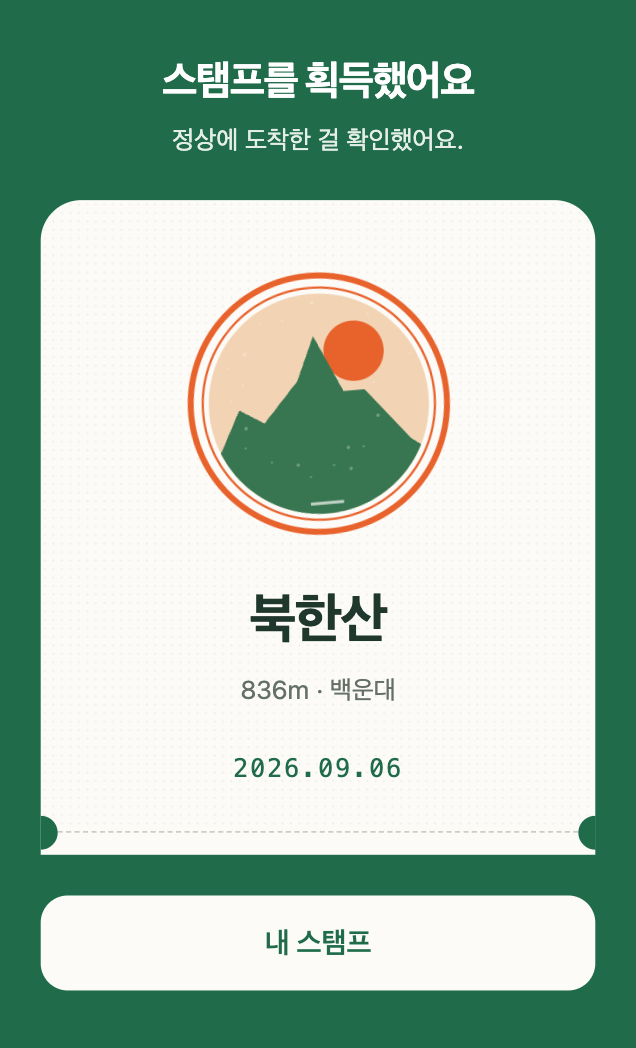
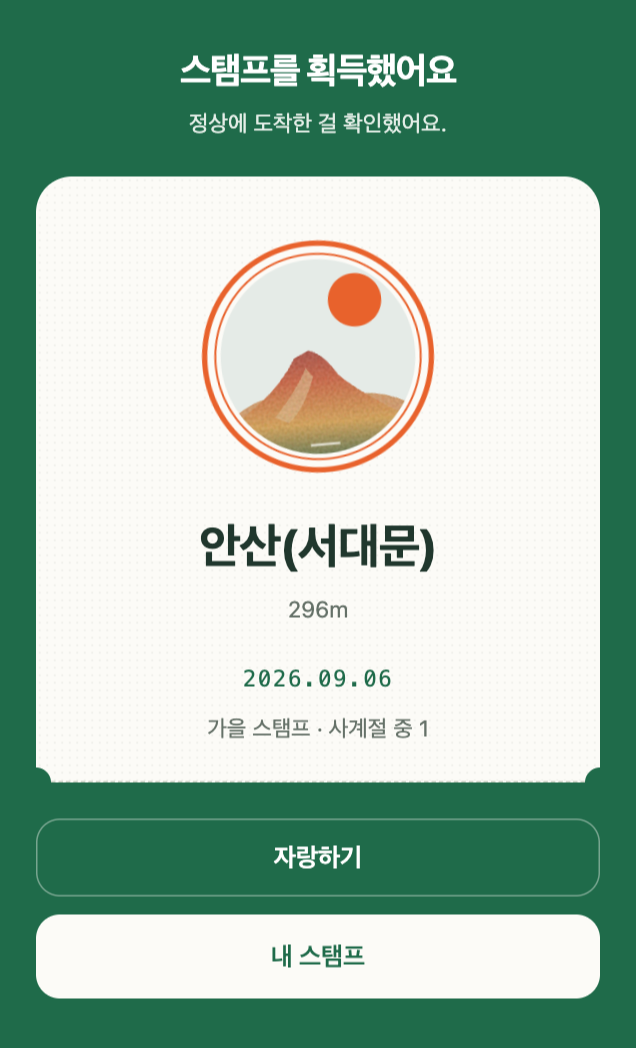
완주 기록: 산행 시작→정상 인증 걸린 시간, 방문 횟수
같은 산에서 인증 전 24시간 안에 누른 산행 시작이 있으면 걸린 시간이 스탬프에 붙는다.
한국 날짜로 자르지 않는다 — 야간 산행은 자정을 넘긴다. 규칙은 src/lib/visits.ts 하나에 두고
my-stamps·verify-summit·클라이언트가 같이 쓴다.

- verify-summit: 성공 응답에 hikeStartedAt. 티켓에 "시작부터 2시간 40분 만에 정상".
- my-stamps: hike_starts를 같이 읽어 스탬프마다 hikeStartedAt을 붙인다.
- 사계절 시트 아래 "N번 다녀왔어요" 목록(날짜·계절·걸린 시간). 산 상세 배지에 "· N번".
- 산행 시작 각주를 "…정상까지 가면 걸린 시간이 스탬프에 남아요. 안 눌러도 정상 인증은 돼요"로.
- 등록용 스크린샷 6장을 새 스탬프 그림으로 다시 찍었다(636×1048).
- scripts/build-photos.mjs: TourAPI 사진 수집 초안. 공공누리 1·3유형만 받는다(광고 대비).
  apis.data.go.kr이 응답하지 않아 아직 못 돌렸다.

Changed region(s): [[0.0299, 0.0305, 0.956, 0.9771]]

diff --git a/src/screens/MountainDetail.tsx b/src/screens/MountainDetail.tsx
@@ -30,6 +30,7 @@ import { askReviewOnce } from '../lib/review.ts';
 import { openPick, shareMountain } from '../lib/share.ts';
 import { seasonOf } from '../lib/stamp-art.ts';
 import { canCheckIn } from '../lib/trailhead.ts';
+import { durationMin, formatDuration } from '../lib/visits.ts';
 import {
   ensureLocationPermission,
   prefetchLocation,
@@ -67,6 +68,8 @@ type Props = {
   seasons: SeasonRecord;
   /** 오늘(한국 시간) 이 산 스탬프를 이미 받았는지. 성공 화면을 띄웠다가 되돌리지 않으려고 본다. */
   stampedToday: boolean;
+  /** 이 산을 다녀온 횟수(스탬프 행 수) */
+  visitCount: number;
   /** 성공 티켓 절취선 아래 "96곳 중 N곳" */
   collectedCount: number;
   totalCount: number;
@@ -169,6 +172,7 @@ export function MountainDetail({
   onGoToPicks,
   seasons,
   stampedToday,
+  visitCount,
   collectedCount,
   totalCount,
   onVerified,
@@ -349,6 +353,11 @@ export function MountainDetail({
             <p className="ticket-season">
               {SEASON_LABEL[season]} 스탬프 · 사계절 중 {seasonDone}
             </p>
+            {state.outcome.hikeStartedAt !== undefined && (
+              <p className="ticket-season">
+                시작부터 {formatDuration(durationMin(state.outcome.hikeStartedAt, now))} 만에 정상
+              </p>
+            )}
             <FieldNote reading={state.reading} outcome={state.outcome} />
           </div>
           <div className="ticket-stub">
@@ -562,6 +571,7 @@ export function MountainDetail({
                   .filter((s) => seasons[s] !== undefined)
                   .map((s) => SEASON_LABEL[s])
                   .join('·')} 스탬프를 모았어요`}
+            {visitCount > 1 && ` · ${visitCount}번`}
           </span>
         )}
         {collected && (
@@ -611,8 +621,8 @@ export function MountainDetail({
               <p className="footnote">
                 {hikeNote ??
                   (mountain.trailheads.length > 0
-                    ? '등산로 입구에서 누르면 위 집계에 함께 잡혀요. 정상 인증과는 상관없어요.'
-                    : '산 근처에서 누르면 위 집계에 함께 잡혀요. 정상 인증과는 상관없어요.')}
+                    ? '등산로 입구에서 누르고 정상까지 가면 걸린 시간이 스탬프에 남아요. 안 눌러도 정상 인증은 돼요.'
+                    : '산 근처에서 누르고 정상까지 가면 걸린 시간이 스탬프에 남아요. 안 눌러도 정상 인증은 돼요.')}
               </p>
             </div>
           )}

diff --git a/src/lib/visits.ts b/src/lib/visits.ts
@@ -1,0 +1,56 @@
+// 한 산을 다녀온 기록. 스탬프 행이 곧 방문(산당 하루 1행)이고, 같은 산에서 인증 전 24시간
+// 안에 누른 산행 시작이 있으면 걸린 시간이 붙는다. 서버(my-stamps·verify-summit)와
+// 클라이언트(시트·티켓)가 같은 짝짓기 규칙을 쓴다.
+import { seasonOf, type Season } from './stamp-art.ts';
+
+// api.ts를 끌어오지 않는다 — Edge Function이 이 파일을 함께 쓰는데, api.ts는 브라우저 전용이다.
+type Stamp = { mountainId: string; verifiedAt: string; hikeStartedAt?: string };
+
+export type HikeStartRow = { mountainId: string; startedAt: string };
+
+const PAIR_WINDOW_MS = 24 * 60 * 60 * 1000;
+
+// 인증 전 24시간 안, 같은 산의 산행 시작 중 가장 늦은 것. 한국 날짜로 자르지 않는다 —
+// 야간 산행은 자정을 넘긴다.
+export function hikeStartFor(
+  stamp: { mountainId: string; verifiedAt: string },
+  starts: HikeStartRow[],
+): string | undefined {
+  const verified = Date.parse(stamp.verifiedAt);
+  let best: string | undefined;
+  for (const start of starts) {
+    if (start.mountainId !== stamp.mountainId) continue;
+    const started = Date.parse(start.startedAt);
+    if (started >= verified || verified - started > PAIR_WINDOW_MS) continue;
+    if (best === undefined || started > Date.parse(best)) best = start.startedAt;
+  }
+  return best;
+}
+
+export function durationMin(startedAt: string, verifiedAt: string): number {
+  return Math.max(1, Math.round((Date.parse(verifiedAt) - Date.parse(startedAt)) / 60_000));
+}
+
+// 160 → "2시간 40분", 45 → "45분", 120 → "2시간"
+export function formatDuration(minutes: number): string {
+  const hours = Math.floor(minutes / 60);
+  const rest = minutes % 60;
+  if (hours === 0) return `${rest}분`;
+  return rest === 0 ? `${hours}시간` : `${hours}시간 ${rest}분`;
+}
+
+export type Visit = { verifiedAt: string; season: Season; durationMin?: number };
+
+// 그 산의 방문 기록, 최근순.
+export function visitsOf(stamps: Stamp[], mountainId: string): Visit[] {
+  return stamps
+    .filter((stamp) => stamp.mountainId === mountainId)
+    .sort((a, b) => (a.verifiedAt < b.verifiedAt ? 1 : -1))
+    .map((stamp) => ({
+      verifiedAt: stamp.verifiedAt,
+      season: seasonOf(stamp.verifiedAt),
+      ...(stamp.hikeStartedAt === undefined
+        ? {}
+        : { durationMin: durationMin(stamp.hikeStartedAt, stamp.verifiedAt) }),
+    }));
+}

diff --git a/supabase/functions/verify-summit/index.ts b/supabase/functions/verify-summit/index.ts
@@ -2,6 +2,7 @@
 
 import { seoulDayStartMs } from '../../../src/lib/day.ts';
 import { isReadingFresh, verifySummit } from '../../../src/lib/verify.ts';
+import { hikeStartFor } from '../../../src/lib/visits.ts';
 import { json, preflight } from '../_shared/http.ts';
 import { MOUNTAINS } from '../_shared/mountains.ts';
 import { parseReading } from '../_shared/reading.ts';
@@ -89,17 +90,40 @@ Deno.serve(async (request: Request) => {
     return json({ status: 'already_today', distanceM: result.distanceM }, 200, origin);
   }
 
-  const { error: insertError } = await supabase.from('stamps').insert({
-    user_id: userKey,
-    mountain_id: mountain.id,
-    distance_m: result.distanceM,
-    accuracy_m: reading.coords.accuracy,
-  });
+  const { data: inserted, error: insertError } = await supabase
+    .from('stamps')
+    .insert({
+      user_id: userKey,
+      mountain_id: mountain.id,
+      distance_m: result.distanceM,
+      accuracy_m: reading.coords.accuracy,
+    })
+    .select('verified_at')
+    .single();
   if (insertError !== null) {
     console.error(`stamps 저장 실패 · ${insertError.message}`);
     return json({ error: 'server_error' }, 500, origin);
   }
 
+  // 24시간 안에 이 산에서 산행 시작을 눌렀으면 걸린 시간의 재료를 돌려준다. 조회가 실패해도
+  // 스탬프는 이미 저장됐으니 시간만 빼고 성공으로 답한다.
+  const { data: starts } = await supabase
+    .from('hike_starts')
+    .select('mountain_id, started_at')
+    .eq('user_id', userKey)
+    .eq('mountain_id', mountain.id)
+    .gte('started_at', new Date(now - 24 * 60 * 60 * 1000).toISOString());
+  const hikeStartedAt = hikeStartFor(
+    { mountainId: mountain.id, verifiedAt: inserted.verified_at },
+    (starts ?? []).map((row) => ({ mountainId: row.mountain_id, startedAt: row.started_at })),
+  );
+
   console.log(`stamp · userKey=${userKey} · ${mountain.id} · ${Math.round(result.distanceM)}m`);
-  return json({ status: 'ok', distanceM: result.distanceM }, 200, origin);
+  return json(
+    hikeStartedAt === undefined
+      ? { status: 'ok', distanceM: result.distanceM }
+      : { status: 'ok', distanceM: result.distanceM, hikeStartedAt },
+    200,
+    origin,
+  );
 });

diff --git a/supabase/functions/my-stamps/index.ts b/supabase/functions/my-stamps/index.ts
@@ -1,5 +1,6 @@
 // 내 스탬프 목록. 최근에 찍은 것부터.
 
+import { hikeStartFor } from '../../../src/lib/visits.ts';
 import { json, preflight } from '../_shared/http.ts';
 import { readUserKey, serviceClient } from '../_shared/session.ts';
 
@@ -18,20 +19,30 @@ Deno.serve(async (request: Request) => {
     return json({ error: 'unauthorized' }, 401, origin);
   }
 
-  const { data, error } = await serviceClient()
-    .from('stamps')
-    .select('mountain_id, verified_at')
-    .eq('user_id', userKey)
-    .order('verified_at', { ascending: false });
+  const supabase = serviceClient();
+  const [{ data, error }, { data: starts, error: startsError }] = await Promise.all([
+    supabase
+      .from('stamps')
+      .select('mountain_id, verified_at')
+      .eq('user_id', userKey)
+      .order('verified_at', { ascending: false }),
+    supabase.from('hike_starts').select('mountain_id, started_at').eq('user_id', userKey),
+  ]);
 
-  if (error !== null) {
-    console.error(`my-stamps 조회 실패 · ${error.message}`);
+  if (error !== null || startsError !== null) {
+    console.error(`my-stamps 조회 실패 · ${error?.message ?? startsError?.message}`);
     return json({ error: 'server_error' }, 500, origin);
   }
 
+  // 산행 시작과 짝지어 걸린 시간의 재료(hikeStartedAt)를 같이 준다. 규칙은 src/lib/visits.ts.
+  const startRows = starts.map((row) => ({ mountainId: row.mountain_id, startedAt: row.started_at }));
   return json(
     {
-      stamps: data.map((row) => ({ mountainId: row.mountain_id, verifiedAt: row.verified_at })),
+      stamps: data.map((row) => {
+        const stamp = { mountainId: row.mountain_id, verifiedAt: row.verified_at };
+        const hikeStartedAt = hikeStartFor(stamp, startRows);
+        return hikeStartedAt === undefined ? stamp : { ...stamp, hikeStartedAt };
+      }),
     },
     200,
     origin,

diff --git a/src/components/SeasonSheet.tsx b/src/components/SeasonSheet.tsx
@@ -11,11 +11,12 @@ import {
 import { shareMountain } from '../lib/share.ts';
 import { useSystemBack } from '../lib/useSystemBack.ts';
 import type { Mountain } from '../lib/verify.ts';
+import { formatDuration, type Visit } from '../lib/visits.ts';
 
-type Props = { mountain: Mountain; record: SeasonRecord; onClose: () => void };
+type Props = { mountain: Mountain; record: SeasonRecord; visits: Visit[]; onClose: () => void };
 
 // 산 하나의 사계절. 컬렉션 칸을 누르면 뜬다. "다음엔 겨울에 오자"가 생기는 자리.
-export function SeasonSheet({ mountain, record, onClose }: Props) {
+export function SeasonSheet({ mountain, record, visits, onClose }: Props) {
   useSystemBack(true, onClose);
   const done = seasonCount(record);
   // 미리보기 카드는 가장 최근에 찍은 계절로 만든다.
@@ -54,6 +55,26 @@ export function SeasonSheet({ mountain, record, onClose }: Props) {
             );
           })}
         </ul>
+
+        {/* 다녀온 기록. 산행 시작을 누르고 온 날만 걸린 시간이 붙는다. */}
+        {visits.length > 0 && (
+          <section className="visits">
+            <h3 className="section-title">
+              {visits.length}번 다녀왔어요
+            </h3>
+            <ul className="visit-list">
+              {visits.slice(0, 10).map((visit) => (
+                <li key={visit.verifiedAt}>
+                  <span>{formatSeoulDate(visit.verifiedAt)}</span>
+                  <span>{SEASON_LABEL[visit.season]}</span>
+                  <strong>
+                    {visit.durationMin === undefined ? '' : formatDuration(visit.durationMin)}
+                  </strong>
+                </li>
+              ))}
+            </ul>
+          </section>
+        )}
 
         {latest !== undefined && (
           <button

diff --git a/src/lib/visits.test.ts b/src/lib/visits.test.ts
@@ -1,0 +1,47 @@
+import assert from 'node:assert/strict';
+import { test } from 'node:test';
+
+import { durationMin, formatDuration, hikeStartFor, visitsOf } from './visits.ts';
+
+const stamp = { mountainId: 'a', verifiedAt: '2026-09-06T03:00:00.000Z' };
+
+test('인증 전 24시간 안의 같은 산 시작 중 가장 늦은 것을 짝짓는다', () => {
+  const starts = [
+    { mountainId: 'a', startedAt: '2026-09-05T02:00:00.000Z' }, // 25시간 전 — 밖
+    { mountainId: 'a', startedAt: '2026-09-05T22:00:00.000Z' }, // 자정 넘긴 야간 산행
+    { mountainId: 'a', startedAt: '2026-09-06T00:20:00.000Z' }, // 가장 늦음
+    { mountainId: 'b', startedAt: '2026-09-06T00:30:00.000Z' }, // 다른 산
+    { mountainId: 'a', startedAt: '2026-09-06T04:00:00.000Z' }, // 인증 뒤
+  ];
+  assert.equal(hikeStartFor(stamp, starts), '2026-09-06T00:20:00.000Z');
+  assert.equal(hikeStartFor(stamp, starts.slice(0, 1)), undefined);
+});
+
+test('걸린 시간 표기', () => {
+  assert.equal(durationMin('2026-09-06T00:20:00.000Z', stamp.verifiedAt), 160);
+  assert.equal(formatDuration(160), '2시간 40분');
+  assert.equal(formatDuration(45), '45분');
+  assert.equal(formatDuration(120), '2시간');
+});
+
+test('방문 기록은 최근순이고 시작이 있을 때만 시간이 붙는다', () => {
+  const visits = visitsOf(
+    [
+      { mountainId: 'a', verifiedAt: '2026-04-10T02:00:00.000Z' },
+      { mountainId: 'b', verifiedAt: '2026-05-10T02:00:00.000Z' },
+      {
+        mountainId: 'a',
+        verifiedAt: '2026-09-06T03:00:00.000Z',
+        hikeStartedAt: '2026-09-06T00:20:00.000Z',
+      },
+    ],
+    'a',
+  );
+  assert.deepEqual(
+    visits.map((v) => [v.season, v.durationMin]),
+    [
+      ['autumn', 160],
+      ['spring', undefined],
+    ],
+  );
+});

diff --git a/src/lib/api.ts b/src/lib/api.ts
@@ -5,12 +5,13 @@ import type { Reading, VerifyReason } from './verify.ts';
 const API_BASE = import.meta.env.VITE_API_BASE ?? '';
 
 export type SummitOutcome =
-  | { status: 'ok'; distanceM: number }
+  // hikeStartedAt: 같은 산에서 24시간 안에 누른 산행 시작. 있으면 티켓에 걸린 시간을 적는다.
+  | { status: 'ok'; distanceM: number; hikeStartedAt?: string }
   | { status: 'already_today'; distanceM: number }
   | { status: 'rejected'; reason: VerifyReason; distanceM: number }
   | { status: 'stale_reading' };
 
-export type Stamp = { mountainId: string; verifiedAt: string };
+export type Stamp = { mountainId: string; verifiedAt: string; hikeStartedAt?: string };
 
 // 인증이 반경 밖으로 실패했을 때, 이용자가 "여기도 정상"이라고 알려주는 통로.
 // 스탬프를 주지 않는다 — 우리가 정상 좌표를 고칠지 판단하는 근거로만 쓴다.

diff --git a/src/screens/MyStamps.tsx b/src/screens/MyStamps.tsx
@@ -10,6 +10,7 @@ import { groupByRegion } from '../lib/region.ts';
 import { askReview, canReview } from '../lib/review.ts';
 import { groupSeasons, latestSeason, seasonCount } from '../lib/seasons.ts';
 import type { Mountain } from '../lib/verify.ts';
+import { visitsOf } from '../lib/visits.ts';
 
 type Props = {
   mountains: Mountain[];
@@ -144,7 +145,12 @@ export function MyStamps({ mountains: allMountains, stamps, failed, onRetry }: P
       )}
 
       {open !== null && (
-        <SeasonSheet mountain={open} record={seasons.get(open.id) ?? {}} onClose={() => setOpen(null)} />
+        <SeasonSheet
+          mountain={open}
+          record={seasons.get(open.id) ?? {}}
+          visits={visitsOf(stamps ?? [], open.id)}
+          onClose={() => setOpen(null)}
+        />
       )}
     </main>
   );

diff --git a/src/index.css b/src/index.css
@@ -1404,3 +1404,37 @@ h3 {
   width: auto;
   padding: 0 var(--space-5);
 }
+
+/* 사계절 시트의 다녀온 기록. 날짜 · 계절 · 걸린 시간(있을 때만). */
+.visits {
+  margin-top: var(--space-5);
+}
+
+.visits .section-title {
+  padding: 0 0 var(--space-2);
+}
+
+.visit-list {
+  margin: 0;
+  padding: 0;
+  list-style: none;
+}
+
+.visit-list li {
+  display: flex;
+  align-items: center;
+  gap: var(--space-3);
+  min-height: 44px;
+  border-top: 1px solid var(--color-line);
+  font-size: var(--font-size-body-small);
+  color: var(--color-text-subtle);
+}
+
+.visit-list li span:first-child {
+  color: var(--color-text-default);
+}
+
+.visit-list strong {
+  margin-left: auto;
+  color: var(--brand-primary);
+}

diff --git a/src/App.tsx b/src/App.tsx
@@ -100,6 +100,7 @@ function App() {
             stamp.mountainId === detail.id &&
             new Date(stamp.verifiedAt).getTime() >= seoulDayStartMs(Date.now()),
         )}
+        visitCount={(stamps ?? []).filter((stamp) => stamp.mountainId === detail.id).length}
         collectedCount={
           [...groupSeasons(stamps ?? []).keys()].filter((id) => {
             const m = MOUNTAINS.find((mountain) => mountain.id === id);
